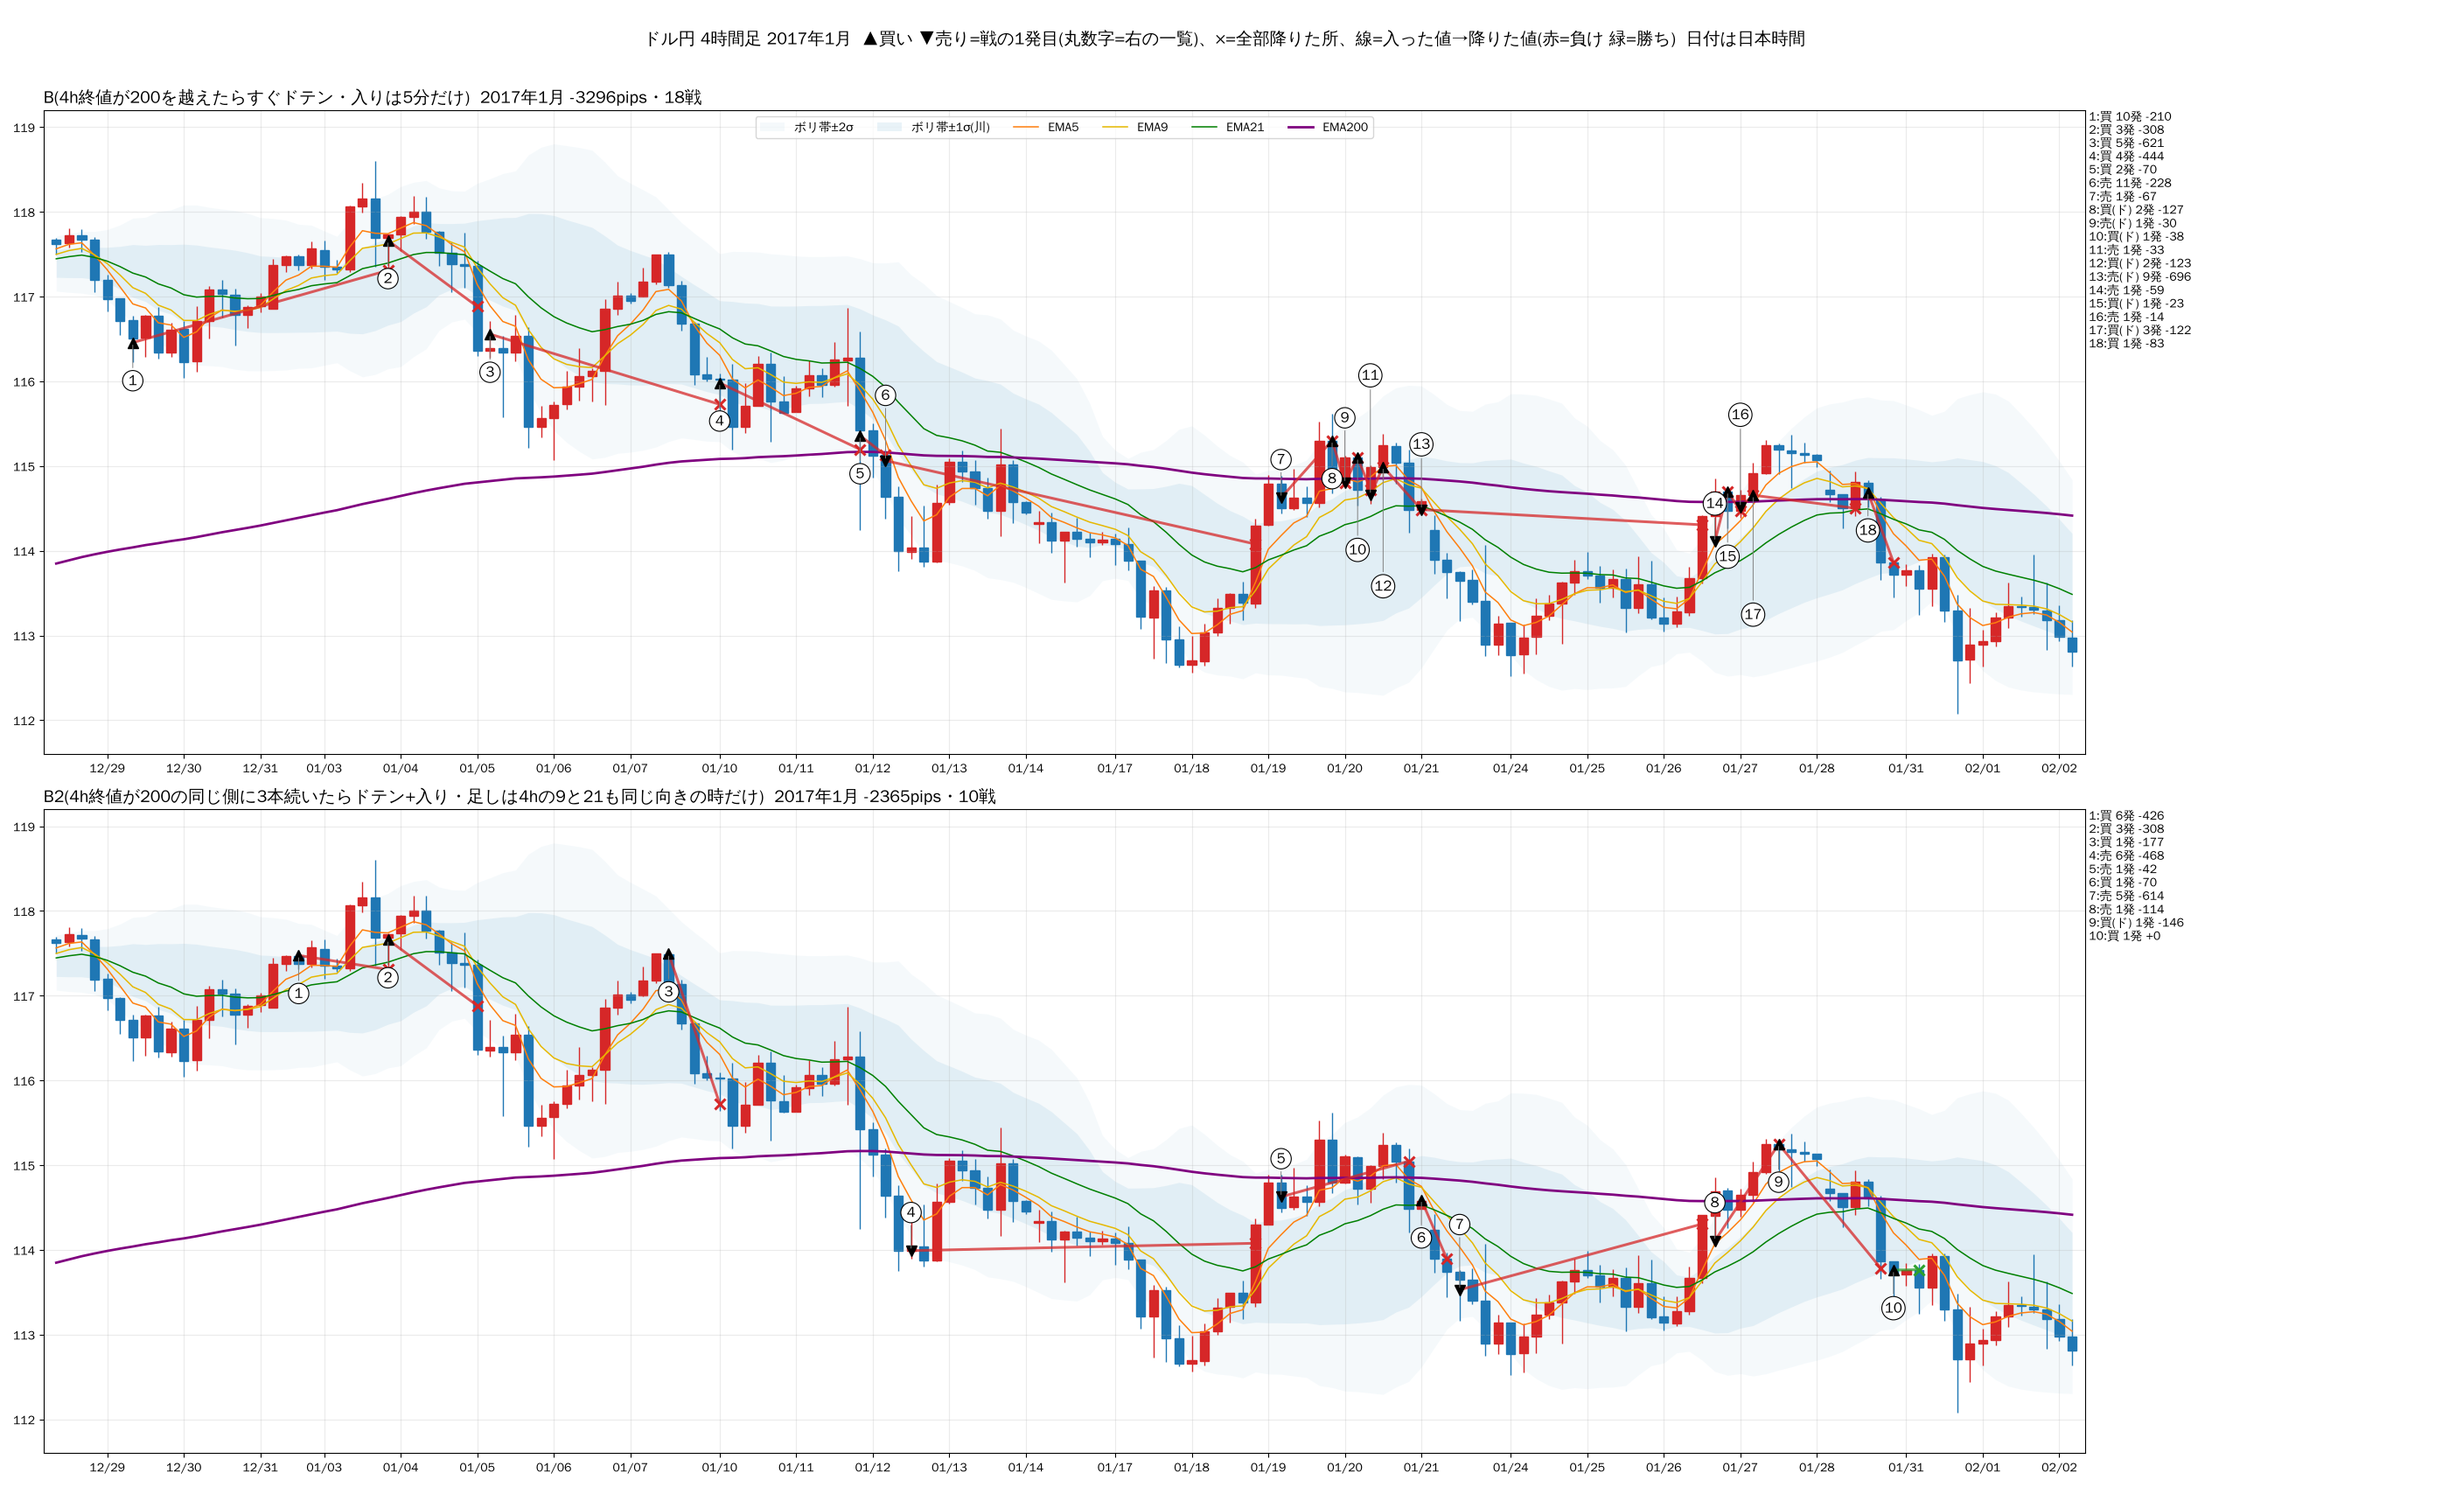
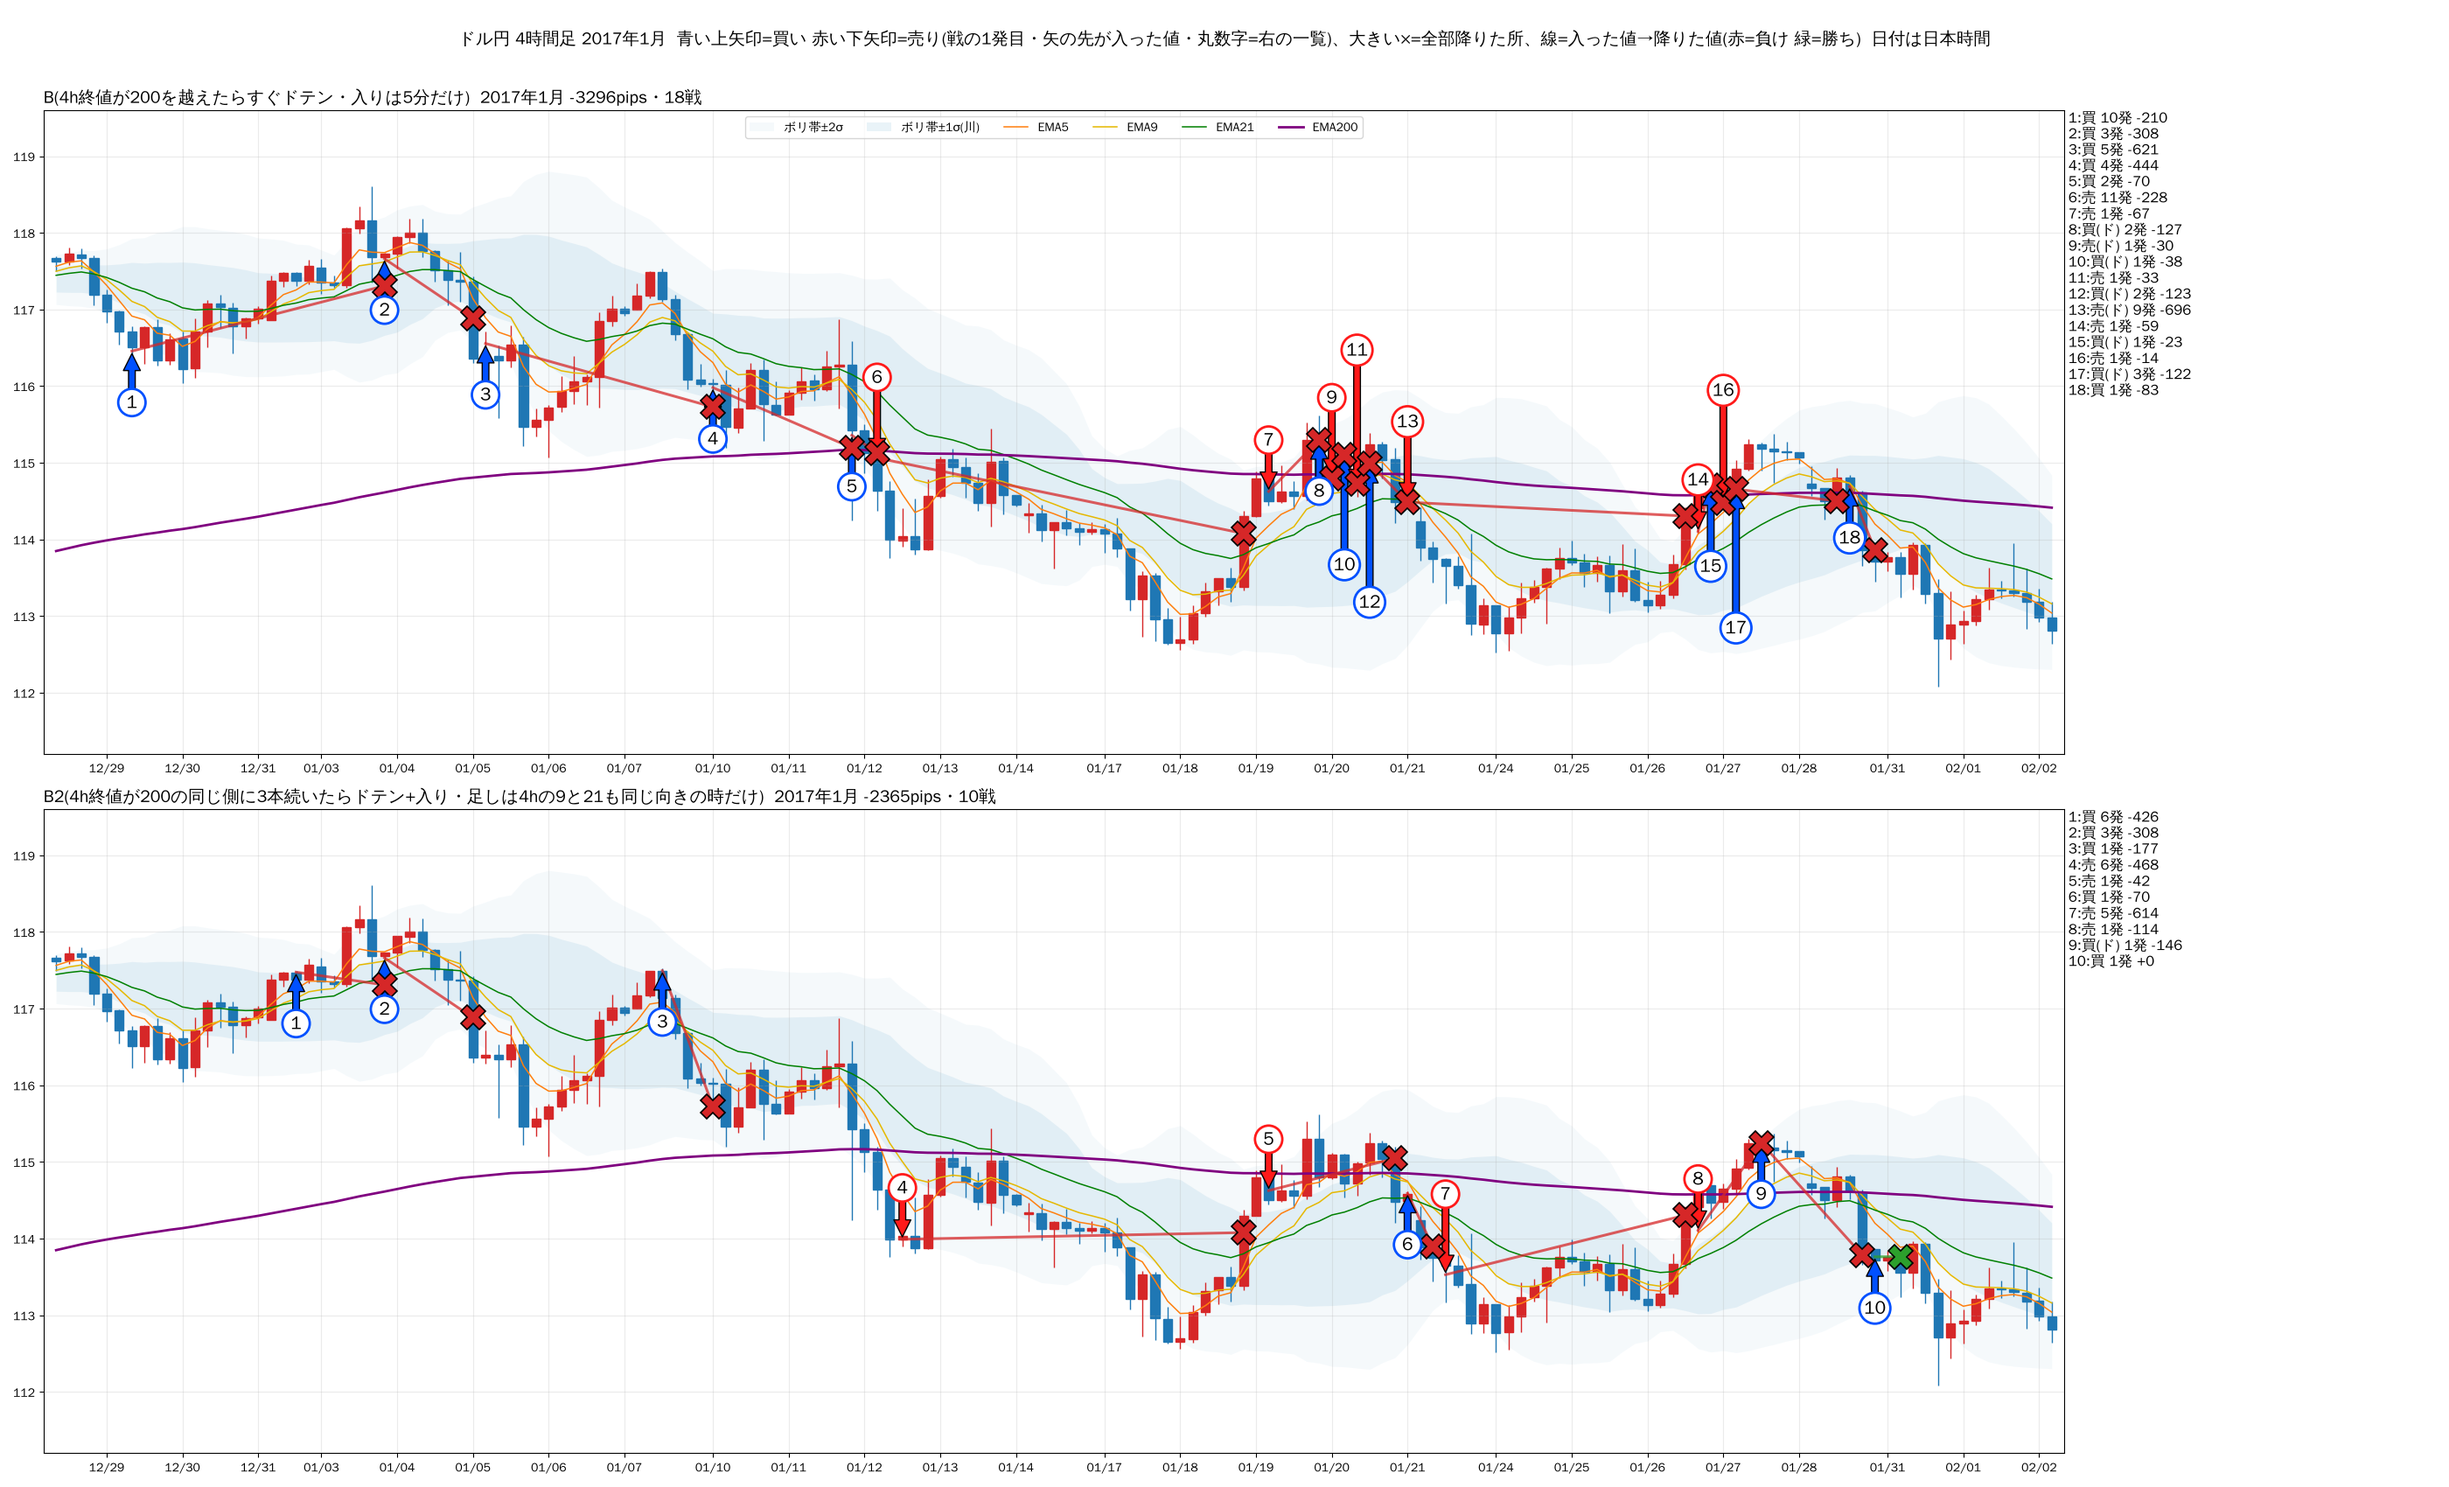
2017年1月の図: 矢印を大きく(買い=青の上矢印・売り=赤の下矢印)
Claude-Session: https://claude.ai/code/session_014B7FRoWVDj9Ajzc43F75NE

diff --git a/kensho_dragon/jan17b.py b/kensho_dragon/jan17b.py
@@ -19,22 +19,25 @@ def panel(ax,logf,name):
     for no,(cp,r) in enumerate(cc.iterrows(),1):
         i0=pos.get(r.open.floor('4h')); i1=pos.get(r.close.floor('4h')); col='#2ca02c' if r.p>0 else '#d62728'
         if i0 is not None and i1 is not None: ax.plot([i0,i1],[r.entry,r.exit],color=col,lw=2.2,alpha=.75)
-        if i1 is not None: ax.plot(i1,r.exit,'x',color=col,ms=9,mew=2.2)
+        if i1 is not None: ax.plot(i1,r.exit,'X',color=col,ms=20,mec='black',mew=1.2,zorder=7)
         if i0 is not None:
-            ax.plot(i0,r.entry,'^' if r.dir=='買' else 'v',color='black',ms=9,zorder=5)
+            buy=(r.dir=='買'); ac='#0050ff' if buy else '#ff1a1a'
             lvl=sum(1 for u in used if abs(u-i0)<4); used.append(i0)   # 近い番号は段をずらす
-            dy=(0.45+0.32*lvl)*(-1 if r.dir=='買' else 1)
-            ax.annotate(str(no),(i0,r.entry),xytext=(i0,r.entry+dy),ha='center',va='center',fontsize=12,fontweight='bold',
-                        bbox=dict(boxstyle='circle,pad=0.2',fc='white',ec='black',lw=.8),arrowprops=dict(arrowstyle='-',color='gray',lw=.7),zorder=6)
+            dy=(0.55+0.38*lvl)*(-1 if buy else 1)
+            # 太い矢印: 買い=下から上へ(青)、売り=上から下へ(赤)。矢の先が入った値
+            ax.annotate('',xy=(i0,r.entry),xytext=(i0,r.entry+dy),
+                        arrowprops=dict(arrowstyle='simple,head_length=1.4,head_width=1.4,tail_width=0.55',fc=ac,ec='black',lw=1),zorder=6)
+            ax.text(i0,r.entry+dy+(-0.12 if buy else 0.12),str(no),ha='center',va='center',fontsize=15,fontweight='bold',
+                    bbox=dict(boxstyle='circle,pad=0.25',fc='white',ec=ac,lw=2),zorder=8)
         rows.append(f"{no}:{r.dir}{'(ド)' if 'ドテン' in r.k else ''} {int(r.n)}発 {r.p:+.0f}")
     ax.set_xticks(ticks); ax.set_xticklabels([(w.index[i]+JST).strftime('%m/%d') for i in ticks],fontsize=10)
-    ax.set_xlim(-1,len(w)); ax.set_ylim(111.6,119.2); ax.grid(alpha=.25)
+    ax.set_xlim(-1,len(w)); ax.set_ylim(111.2,119.6); ax.grid(alpha=.25)
     ax.set_title(f'{name}  2017年1月 {cc.p.sum():+.0f}pips・{len(cc)}戦',fontsize=14,loc='left')
-    ax.text(1.002,1,'\n'.join(rows),transform=ax.transAxes,va='top',fontsize=10,family='WenQuanYi Zen Hei')
+    ax.text(1.002,1,'\n'.join(rows),transform=ax.transAxes,va='top',fontsize=12,family='WenQuanYi Zen Hei')
     return cc
 fig,axs=plt.subplots(2,1,figsize=(28,17),dpi=100)
 panel(axs[0],'blog.pkl','B(4h終値が200を越えたらすぐドテン・入りは5分だけ)')
 panel(axs[1],'b2log.pkl','B2(4h終値が200の同じ側に3本続いたらドテン+入り・足しは4hの9と21も同じ向きの時だけ)')
 axs[0].legend(loc='upper center',fontsize=10,ncol=6)
-fig.suptitle('ドル円 4時間足 2017年1月  ▲買い ▼売り=戦の1発目(丸数字=右の一覧)、×=全部降りた所、線=入った値→降りた値(赤=負け 緑=勝ち)  日付は日本時間',fontsize=14)
+fig.suptitle('ドル円 4時間足 2017年1月  青い上矢印=買い 赤い下矢印=売り(戦の1発目・矢の先が入った値・丸数字=右の一覧)、大きい×=全部降りた所、線=入った値→降りた値(赤=負け 緑=勝ち)  日付は日本時間',fontsize=14)
 plt.tight_layout(rect=(0,0,0.9,0.97)); plt.savefig('jan2017_4h_B_B2.png'); print('ok')
